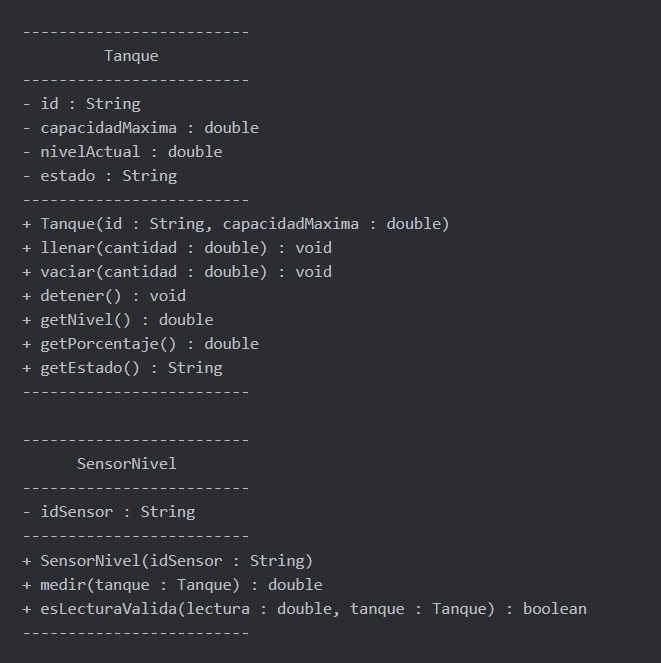
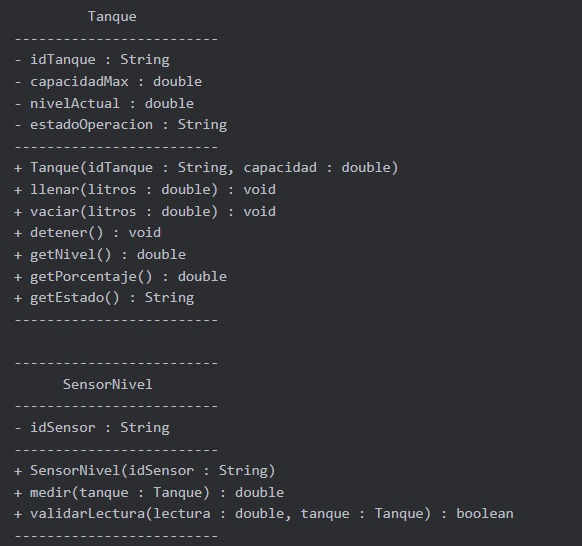
Corrección de  redacción de análisis y diseño UML previo a implementación

diff --git a/docs/ 01-analisis-diseno.md b/docs/ 01-analisis-diseno.md
@@ -34,12 +34,14 @@ El Sensor de nivel se relaciona con el Tanque porque necesita leer el volumen qu
 
 El Tanque que cambia su nivel de líquido y su estado depende del sensor de nivel.
 
+# Fase 3. Diseño orientado a objetos y UML
+
 ## 5. Diseño de clases
 
-| Clase | Atributos propuestos | Tipo de dato | Métodos propuestos | Responsabilidad |
+| Clase | Atributos | Tipo de dato | Métodos | Responsabilidad |
 | :--- | :--- | :--- | :--- | :--- |
-| **Tanque** | `- id`<br>`- capacidadMaxima`<br>`- nivelActual`<br>`- estado` | String<br>double<br>double<br>String | `+ Tanque(id, capacidad)`<br>`+ llenar(cantidad)`<br>`+ vaciar(cantidad)`<br>`+ detener()`<br>`+ getNivel()`<br>`+ getPorcentaje()`<br>`+ getEstado()` | Mantener los límites de líquido seguros y actualizar su estado operativo. |
-| **SensorNivel** | `- idSensor` | String | `+ SensorNivel(id)`<br>`+ medir(Tanque t)`<br>`+ esLecturaValida(lectura, Tanque t)` | Extraer el nivel actual del tanque sin alterarlo. |
+| **Tanque** | `- idTanque`<br>`- capacidadMax`<br>`- nivelActual`<br>`- estadoOperacion` | String<br>double<br>double<br>String | `+ Tanque(idTanque, capacidad)`<br>`+ llenar(litros)`<br>`+ vaciar(litros)`<br>`+ detener()`<br>`+ getNivel()`<br>`+ getPorcentaje()`<br>`+ getEstado()` | Guardar cuánto líquido hay, cambiar el estado y cuidar que no se pase del límite ni baje de cero. |
+| **SensorNivel** | `- idSensor` | String | `+ SensorNivel(idSensor)`<br>`+ medir(Tanque t)`<br>`+ validarLectura(lectura, Tanque t)` | Leer el nivel del tanque y revisar que el valor tenga sentido. |
 
 ## 6. Diagrama UML inicial
 
@@ -47,14 +49,14 @@ El Tanque que cambia su nivel de líquido y su estado depende del sensor de nive
 -------------------------
          Tanque
 -------------------------
-- id : String
-- capacidadMaxima : double
+- idTanque : String
+- capacidadMax : double
 - nivelActual : double
-- estado : String
+- estadoOperacion : String
 -------------------------
-+ Tanque(id : String, capacidadMaxima : double)
-+ llenar(cantidad : double) : void
-+ vaciar(cantidad : double) : void
++ Tanque(idTanque : String, capacidad : double)
++ llenar(litros : double) : void
++ vaciar(litros : double) : void
 + detener() : void
 + getNivel() : double
 + getPorcentaje() : double
@@ -68,5 +70,5 @@ El Tanque que cambia su nivel de líquido y su estado depende del sensor de nive
 -------------------------
 + SensorNivel(idSensor : String)
 + medir(tanque : Tanque) : double
-+ esLecturaValida(lectura : double, tanque : Tanque) : boolean
++ validarLectura(lectura : double, tanque : Tanque) : boolean
 -------------------------
